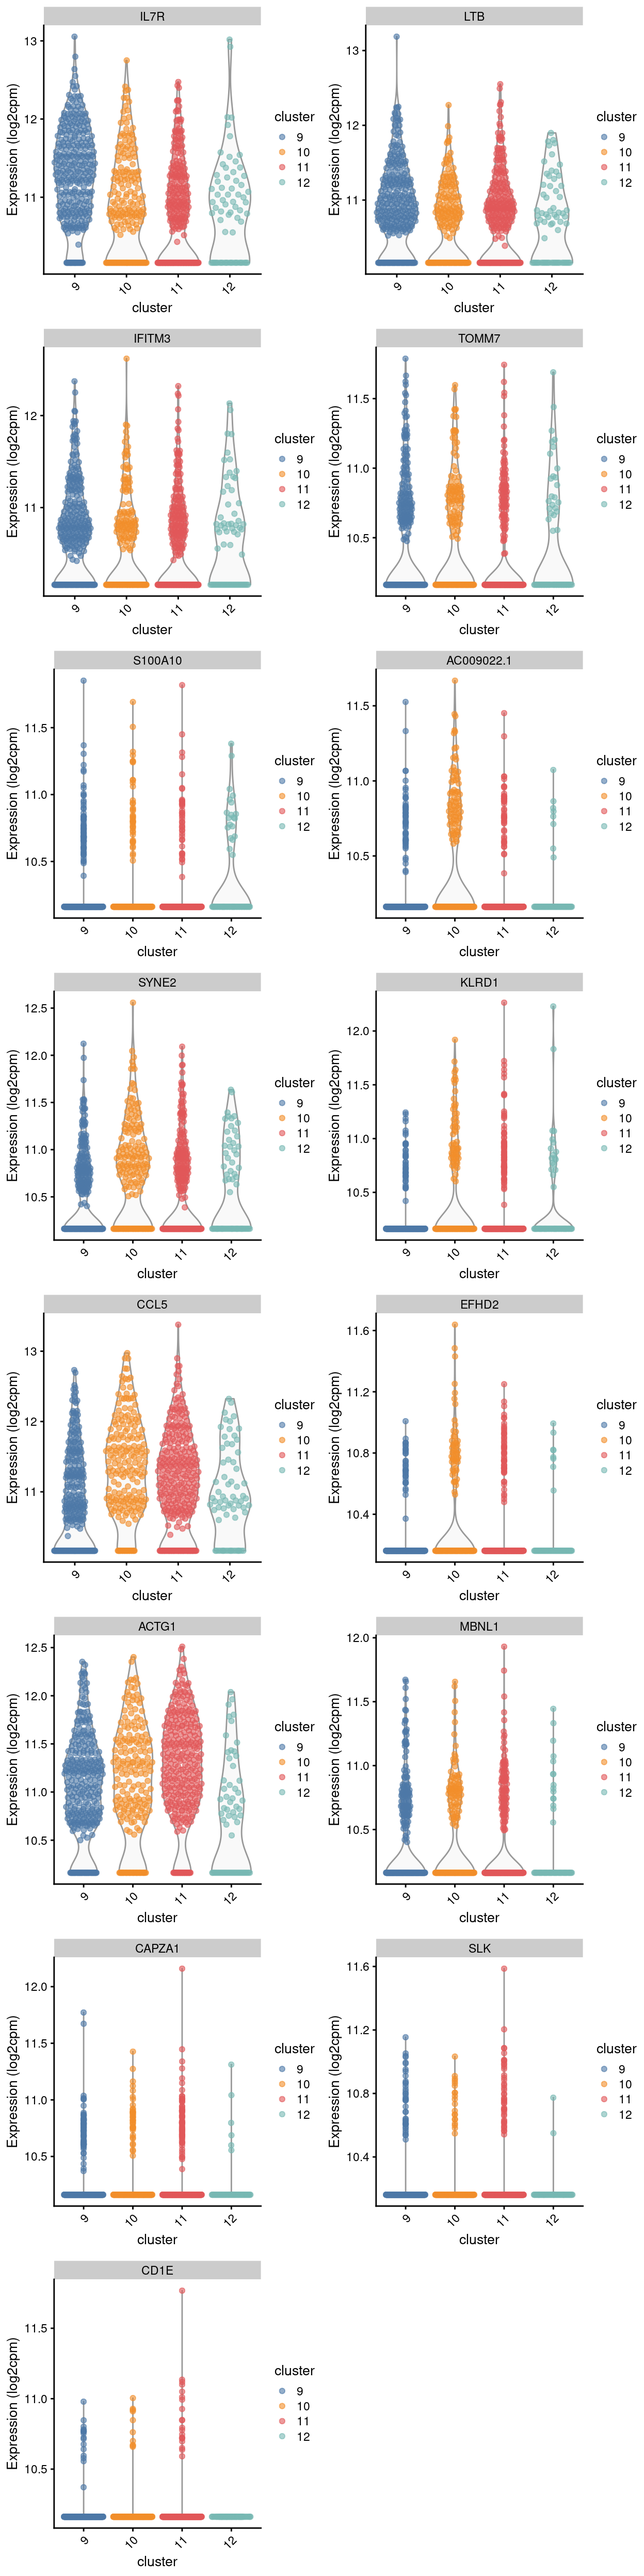
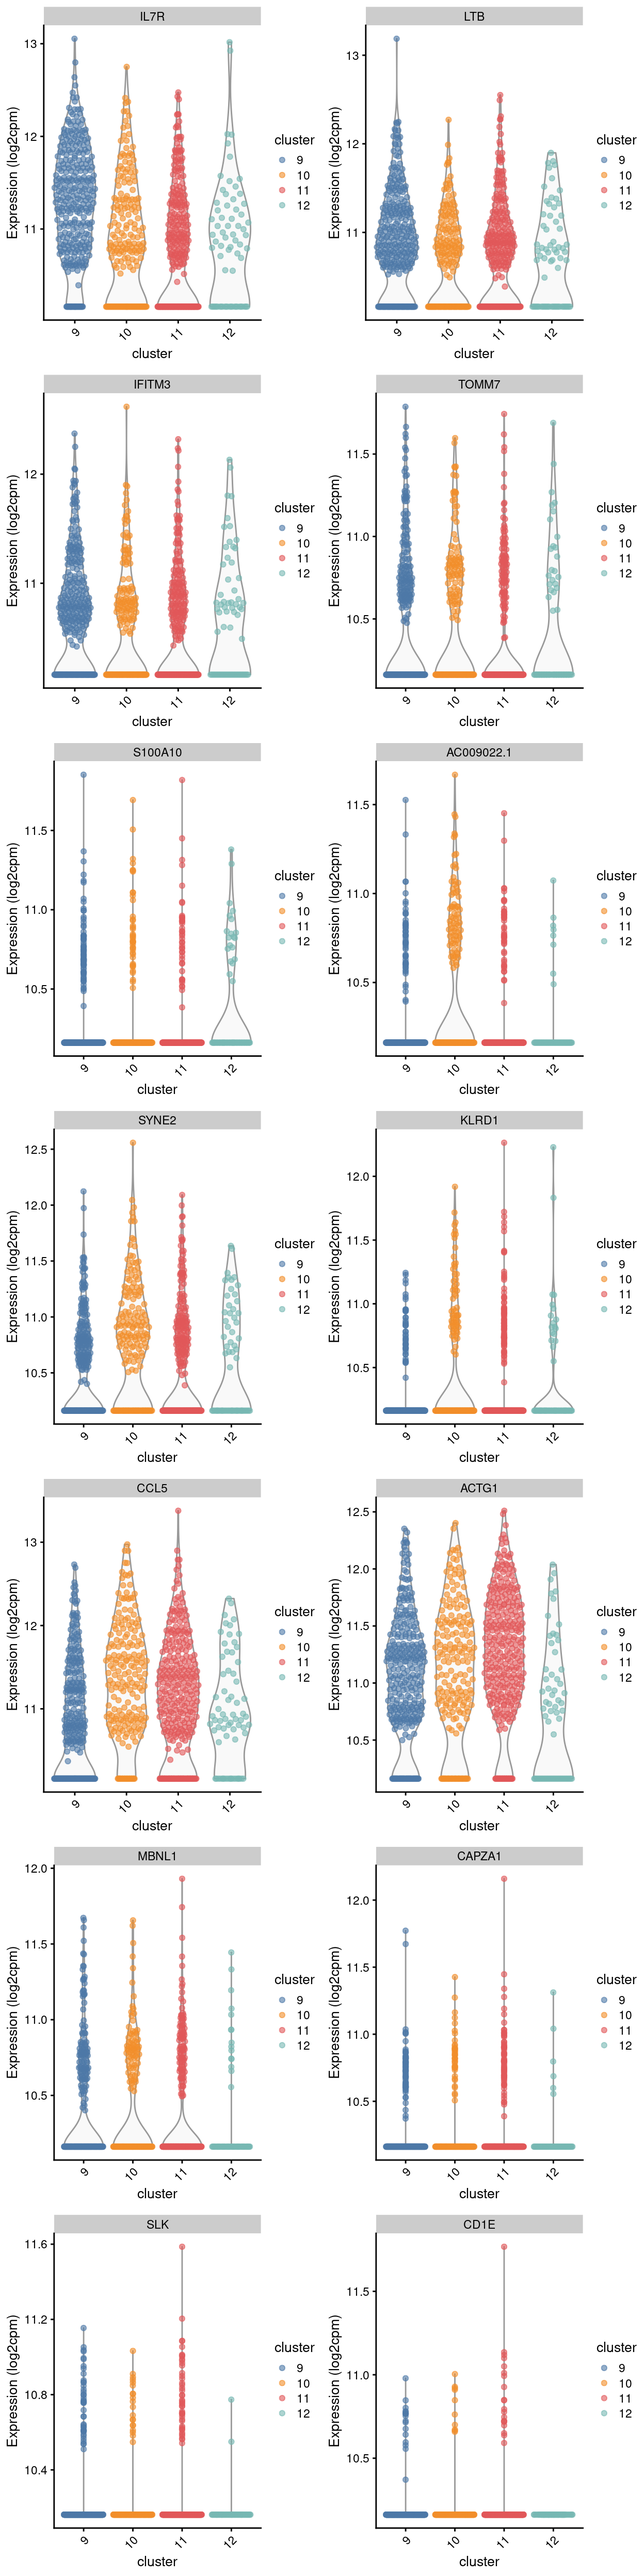
amend error in summary for S3 only subset

diff --git a/docs/C094_Pellicci.single-cell.annotate.S3_only.html b/docs/C094_Pellicci.single-cell.annotate.S3_only.html
@@ -91,8 +91,8 @@ code span.wa { color: #5e5e5e; font-style: italic; } /* Warning */
 
 
   <!--  https://schema.org/Article -->
-  <meta property="article:published" itemprop="datePublished" content="2021-08-26"/>
-  <meta property="article:created" itemprop="dateCreated" content="2021-08-26"/>
+  <meta property="article:published" itemprop="datePublished" content="2021-08-27"/>
+  <meta property="article:created" itemprop="dateCreated" content="2021-08-27"/>
   <meta name="article:author" content="William Ho"/>
 
   <!--  https://developers.facebook.com/docs/sharing/webmasters#markup -->
@@ -111,7 +111,7 @@ code span.wa { color: #5e5e5e; font-style: italic; } /* Warning */
   <!--radix_placeholder_rmarkdown_metadata-->
 
   <script type="text/json" id="radix-rmarkdown-metadata">
-  {"type":"list","attributes":{"names":{"type":"character","attributes":{},"value":["title","description","author","date","editor_options","bibliography"]}},"value":[{"type":"character","attributes":{},"value":["Annotating Pellicci gamma-delta T-cell single-cell dataset (S3 only)"]},{"type":"NULL"},{"type":"list","attributes":{},"value":[{"type":"list","attributes":{"names":{"type":"character","attributes":{},"value":["name","affiliation","affiliation_url"]}},"value":[{"type":"character","attributes":{},"value":["William Ho"]},{"type":"character","attributes":{},"value":["Single Cell Open Research Endeavour (SCORE), WEHI"]},{"type":"character","attributes":{},"value":["https://www.wehi.edu.au/people/rory-bowden/4536/wehi-advanced-genomics-facility"]}]}]},{"type":"character","attributes":{},"value":["2021-08-26"]},{"type":"list","attributes":{"names":{"type":"character","attributes":{},"value":["chunk_output_type"]}},"value":[{"type":"character","attributes":{},"value":["console"]}]},{"type":"character","attributes":{},"value":["ref.bib"]}]}
+  {"type":"list","attributes":{"names":{"type":"character","attributes":{},"value":["title","description","author","date","editor_options","bibliography"]}},"value":[{"type":"character","attributes":{},"value":["Annotating Pellicci gamma-delta T-cell single-cell dataset (S3 only)"]},{"type":"NULL"},{"type":"list","attributes":{},"value":[{"type":"list","attributes":{"names":{"type":"character","attributes":{},"value":["name","affiliation","affiliation_url"]}},"value":[{"type":"character","attributes":{},"value":["William Ho"]},{"type":"character","attributes":{},"value":["Single Cell Open Research Endeavour (SCORE), WEHI"]},{"type":"character","attributes":{},"value":["https://www.wehi.edu.au/people/rory-bowden/4536/wehi-advanced-genomics-facility"]}]}]},{"type":"character","attributes":{},"value":["2021-08-27"]},{"type":"list","attributes":{"names":{"type":"character","attributes":{},"value":["chunk_output_type"]}},"value":[{"type":"character","attributes":{},"value":["console"]}]},{"type":"character","attributes":{},"value":["ref.bib"]}]}
   </script>
   <!--/radix_placeholder_rmarkdown_metadata-->
   <!--radix_placeholder_navigation_in_header-->
@@ -2058,7 +2058,7 @@ code span.wa { color: #5e5e5e; font-style: italic; } /* Warning */
 <!--radix_placeholder_front_matter-->
 
 <script id="distill-front-matter" type="text/json">
-{"title":"Annotating Pellicci gamma-delta T-cell single-cell dataset (S3 only)","authors":[{"author":"William Ho","authorURL":"#","affiliation":"Single Cell Open Research Endeavour (SCORE), WEHI","affiliationURL":"https://www.wehi.edu.au/people/rory-bowden/4536/wehi-advanced-genomics-facility","orcidID":""}],"publishedDate":"2021-08-26T00:00:00.000+10:00","citationText":"Ho, 2021"}
+{"title":"Annotating Pellicci gamma-delta T-cell single-cell dataset (S3 only)","authors":[{"author":"William Ho","authorURL":"#","affiliation":"Single Cell Open Research Endeavour (SCORE), WEHI","affiliationURL":"https://www.wehi.edu.au/people/rory-bowden/4536/wehi-advanced-genomics-facility","orcidID":""}],"publishedDate":"2021-08-27T00:00:00.000+10:00","citationText":"Ho, 2021"}
 </script>
 
 <!--/radix_placeholder_front_matter-->
@@ -2162,7 +2162,7 @@ Supplementary files
 <div class="d-byline">
   William Ho  (Single Cell Open Research Endeavour (SCORE), WEHI)<a href="https://www.wehi.edu.au/people/rory-bowden/4536/wehi-advanced-genomics-facility" class="uri">https://www.wehi.edu.au/people/rory-bowden/4536/wehi-advanced-genomics-facility</a>
   
-<br/>2021-08-26
+<br/>2021-08-27
 </div>
 
 <div class="d-article">
@@ -7328,7 +7328,7 @@ Figure 22: Heatmap of log-expression values in each sample for the top uniquely 
 <p>Based on the pairwise DE detection, each of the peripheral clusters (i.e. cluster 9, 10, 11) do have unique markers up-regulated and driving them apart.</p>
 <p>For instance:</p>
 <p>For cluster <code>9</code>, the only global unique marker that can be found is IL7R, but when pairwise compare cluster 9 with the other clusters one by one, cluster 9 did show a number of gene feature that the other clusters do not have, such as gene LTB when compare 9 to 10, IFITM3, TOMM7 and S100A10 when compare 9 to 11, and lots of marker gene (such as CAPZA1, TPI1, and SLK) when compared 9 to 12.</p>
-<p>Same applied to cluster <code>10</code>, in which, besides the NPIPB gene family, AC009022.1 was shown as the only global unique marker for cluster 10, but when pairwise compare cluster 9 with the other clusters one by one, cluster 10 did show a number of unique gene features, such as SYNE2, KLRD1, and CCL5 when compare 10 to 9, EFHD2 when compare 10 to 11, and series of markers (such as MBNL1 and RSF1) when compare 10 to 12.</p>
+<p>Same applied to cluster <code>10</code>, in which, the NPIPB gene family and the long non-coding RNA (AC009022.1) was shown as the global unique marker for cluster 10, then when pairwise compare cluster 9 with the other clusters one by one, cluster 10 did show a number of unique gene features, such as KLRD1 and CCL5 when compare 10 to 9, SYNE2 when compare 10 to 11, and series of markers (such as MBNL1 and RSF1) when compare 10 to 12.</p>
 <p>For cluster <code>11</code>, one can easily tell apart the cluster 9, 11, and 12, because CCL5 was up-regulated in cluster 11, but not cluster 9, whilst, a series of gene (such as MYO9B, SLK and CD1E) expressed in cluster 11, but not in 12. In contrast, we find no up-regulated markers when 11 to 10, but SYNE2, AC009022.1, and the NPIPB gene family when compare 10 to 11. All in all, cluster 11 is a separated cluster.</p>
 <p>For cluster <code>12</code>, no significantly up-regulated genes can be spotted when compare cluster 12 to all other 3 clusters. But as I shown you before, there are pack of genes significantly up-regulated in cluster 9, 10, and 11, but not in cluster 12. From the biological point of view, one possibility could be that the cluster 12 is a <strong>progenitor</strong> cell-type in the “S3 only” subset of the gamma-delta T cells, which could be multipotent and could be developed into either cluster 9, 10, or 11 cells depending on which set of markers it is going to express.</p>
 <h2 id="supplemental-info">Supplemental info</h2>
@@ -7439,15 +7439,6 @@ Show code
     colour_by <span class='op'>=</span> <span class='st'>"cluster"</span><span class='op'>)</span> <span class='op'>+</span>
     <span class='fu'><a href='https://ggplot2.tidyverse.org/reference/theme.html'>theme</a></span><span class='op'>(</span>axis.text.x <span class='op'>=</span> <span class='fu'><a href='https://ggplot2.tidyverse.org/reference/element.html'>element_text</a></span><span class='op'>(</span>angle <span class='op'>=</span> <span class='fl'>45</span>, hjust <span class='op'>=</span> <span class='fl'>1</span><span class='op'>)</span><span class='op'>)</span> <span class='op'>+</span>
     <span class='fu'><a href='https://ggplot2.tidyverse.org/reference/scale_manual.html'>scale_colour_manual</a></span><span class='op'>(</span>values <span class='op'>=</span> <span class='va'>cluster_colours</span>, name <span class='op'>=</span> <span class='st'>"cluster"</span><span class='op'>)</span>,
-
-  <span class='fu'><a href='https://rdrr.io/pkg/scater/man/plotExpression.html'>plotExpression</a></span><span class='op'>(</span>
-    <span class='va'>sce</span>,
-    features <span class='op'>=</span> <span class='st'>"EFHD2"</span>,
-    x <span class='op'>=</span> <span class='st'>"cluster"</span>,
-    exprs_values <span class='op'>=</span> <span class='st'>"log2cpm"</span>,
-    colour_by <span class='op'>=</span> <span class='st'>"cluster"</span><span class='op'>)</span> <span class='op'>+</span>
-    <span class='fu'><a href='https://ggplot2.tidyverse.org/reference/theme.html'>theme</a></span><span class='op'>(</span>axis.text.x <span class='op'>=</span> <span class='fu'><a href='https://ggplot2.tidyverse.org/reference/element.html'>element_text</a></span><span class='op'>(</span>angle <span class='op'>=</span> <span class='fl'>45</span>, hjust <span class='op'>=</span> <span class='fl'>1</span><span class='op'>)</span><span class='op'>)</span> <span class='op'>+</span>
-    <span class='fu'><a href='https://ggplot2.tidyverse.org/reference/scale_manual.html'>scale_colour_manual</a></span><span class='op'>(</span>values <span class='op'>=</span> <span class='va'>cluster_colours</span>, name <span class='op'>=</span> <span class='st'>"cluster"</span><span class='op'>)</span>, 
     
   <span class='co'># cluster 12</span>
   <span class='fu'><a href='https://rdrr.io/pkg/scater/man/plotExpression.html'>plotExpression</a></span><span class='op'>(</span>
@@ -7531,7 +7522,7 @@ Show code
  collate  en_US.UTF-8                 
  ctype    en_US.UTF-8                 
  tz       Australia/Melbourne         
- date     2021-08-26                  
+ date     2021-08-27                  
 
 ─ Packages ─────────────────────────────────────────────────────────
  ! package              * version  date       lib
